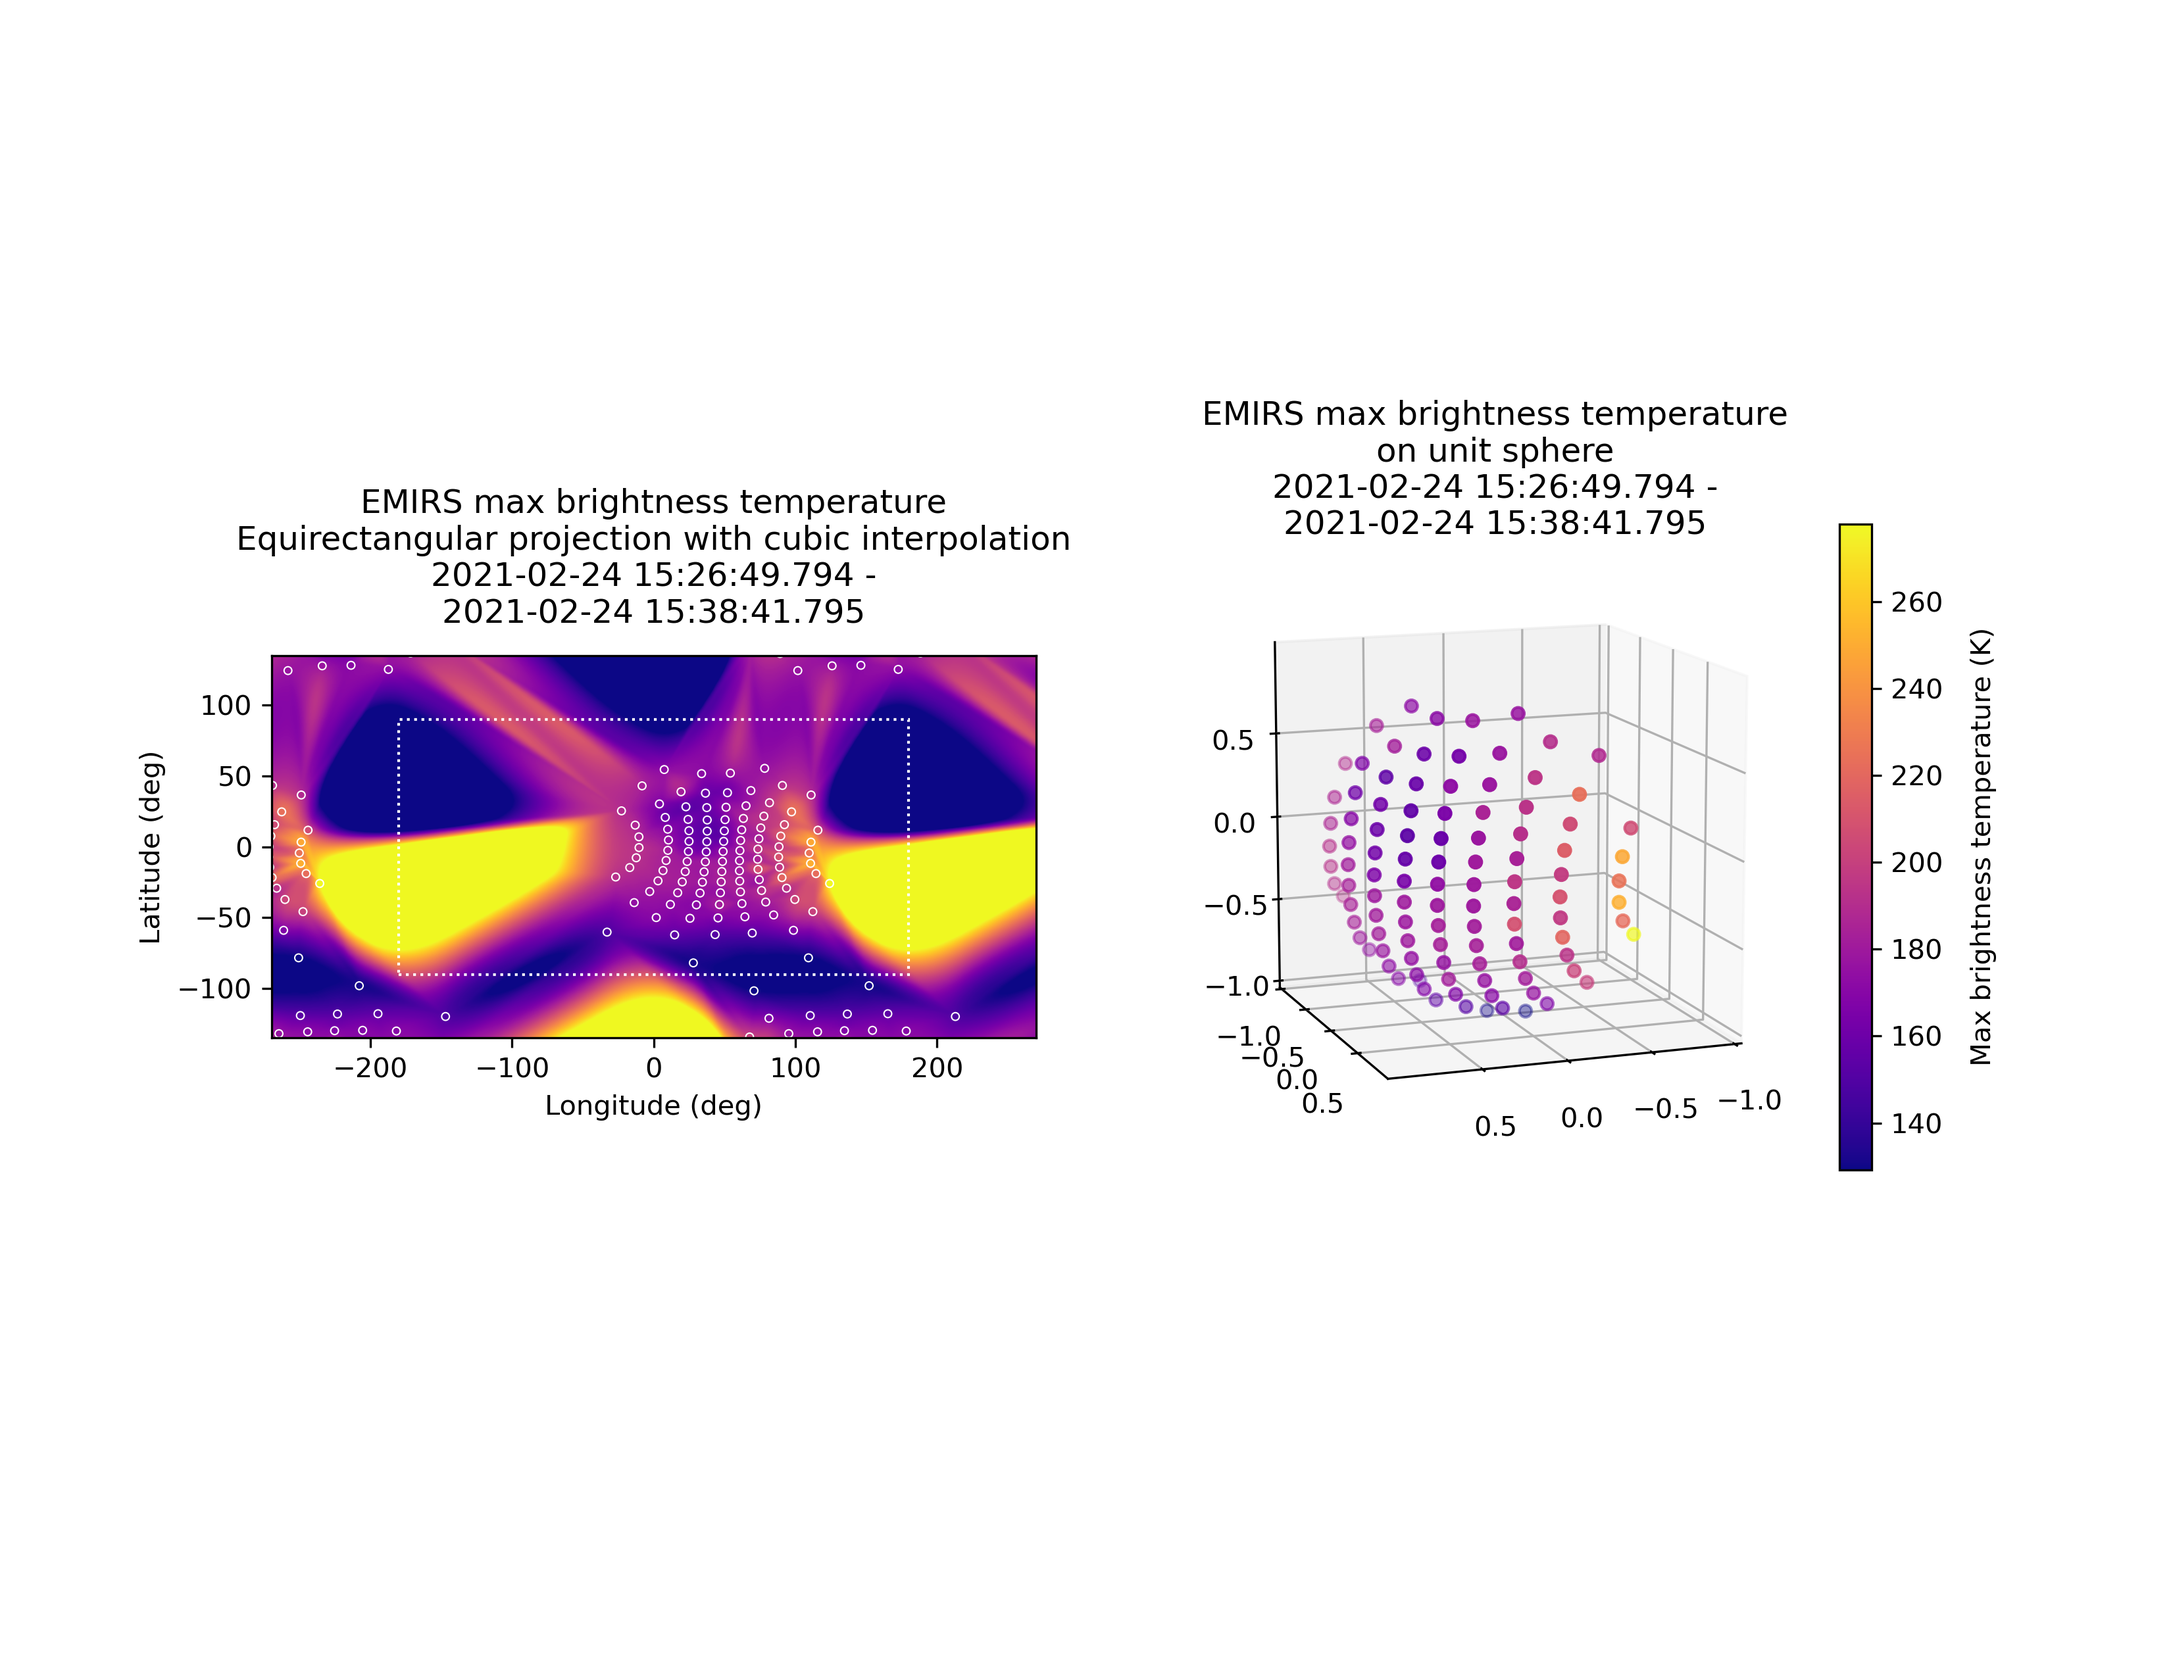
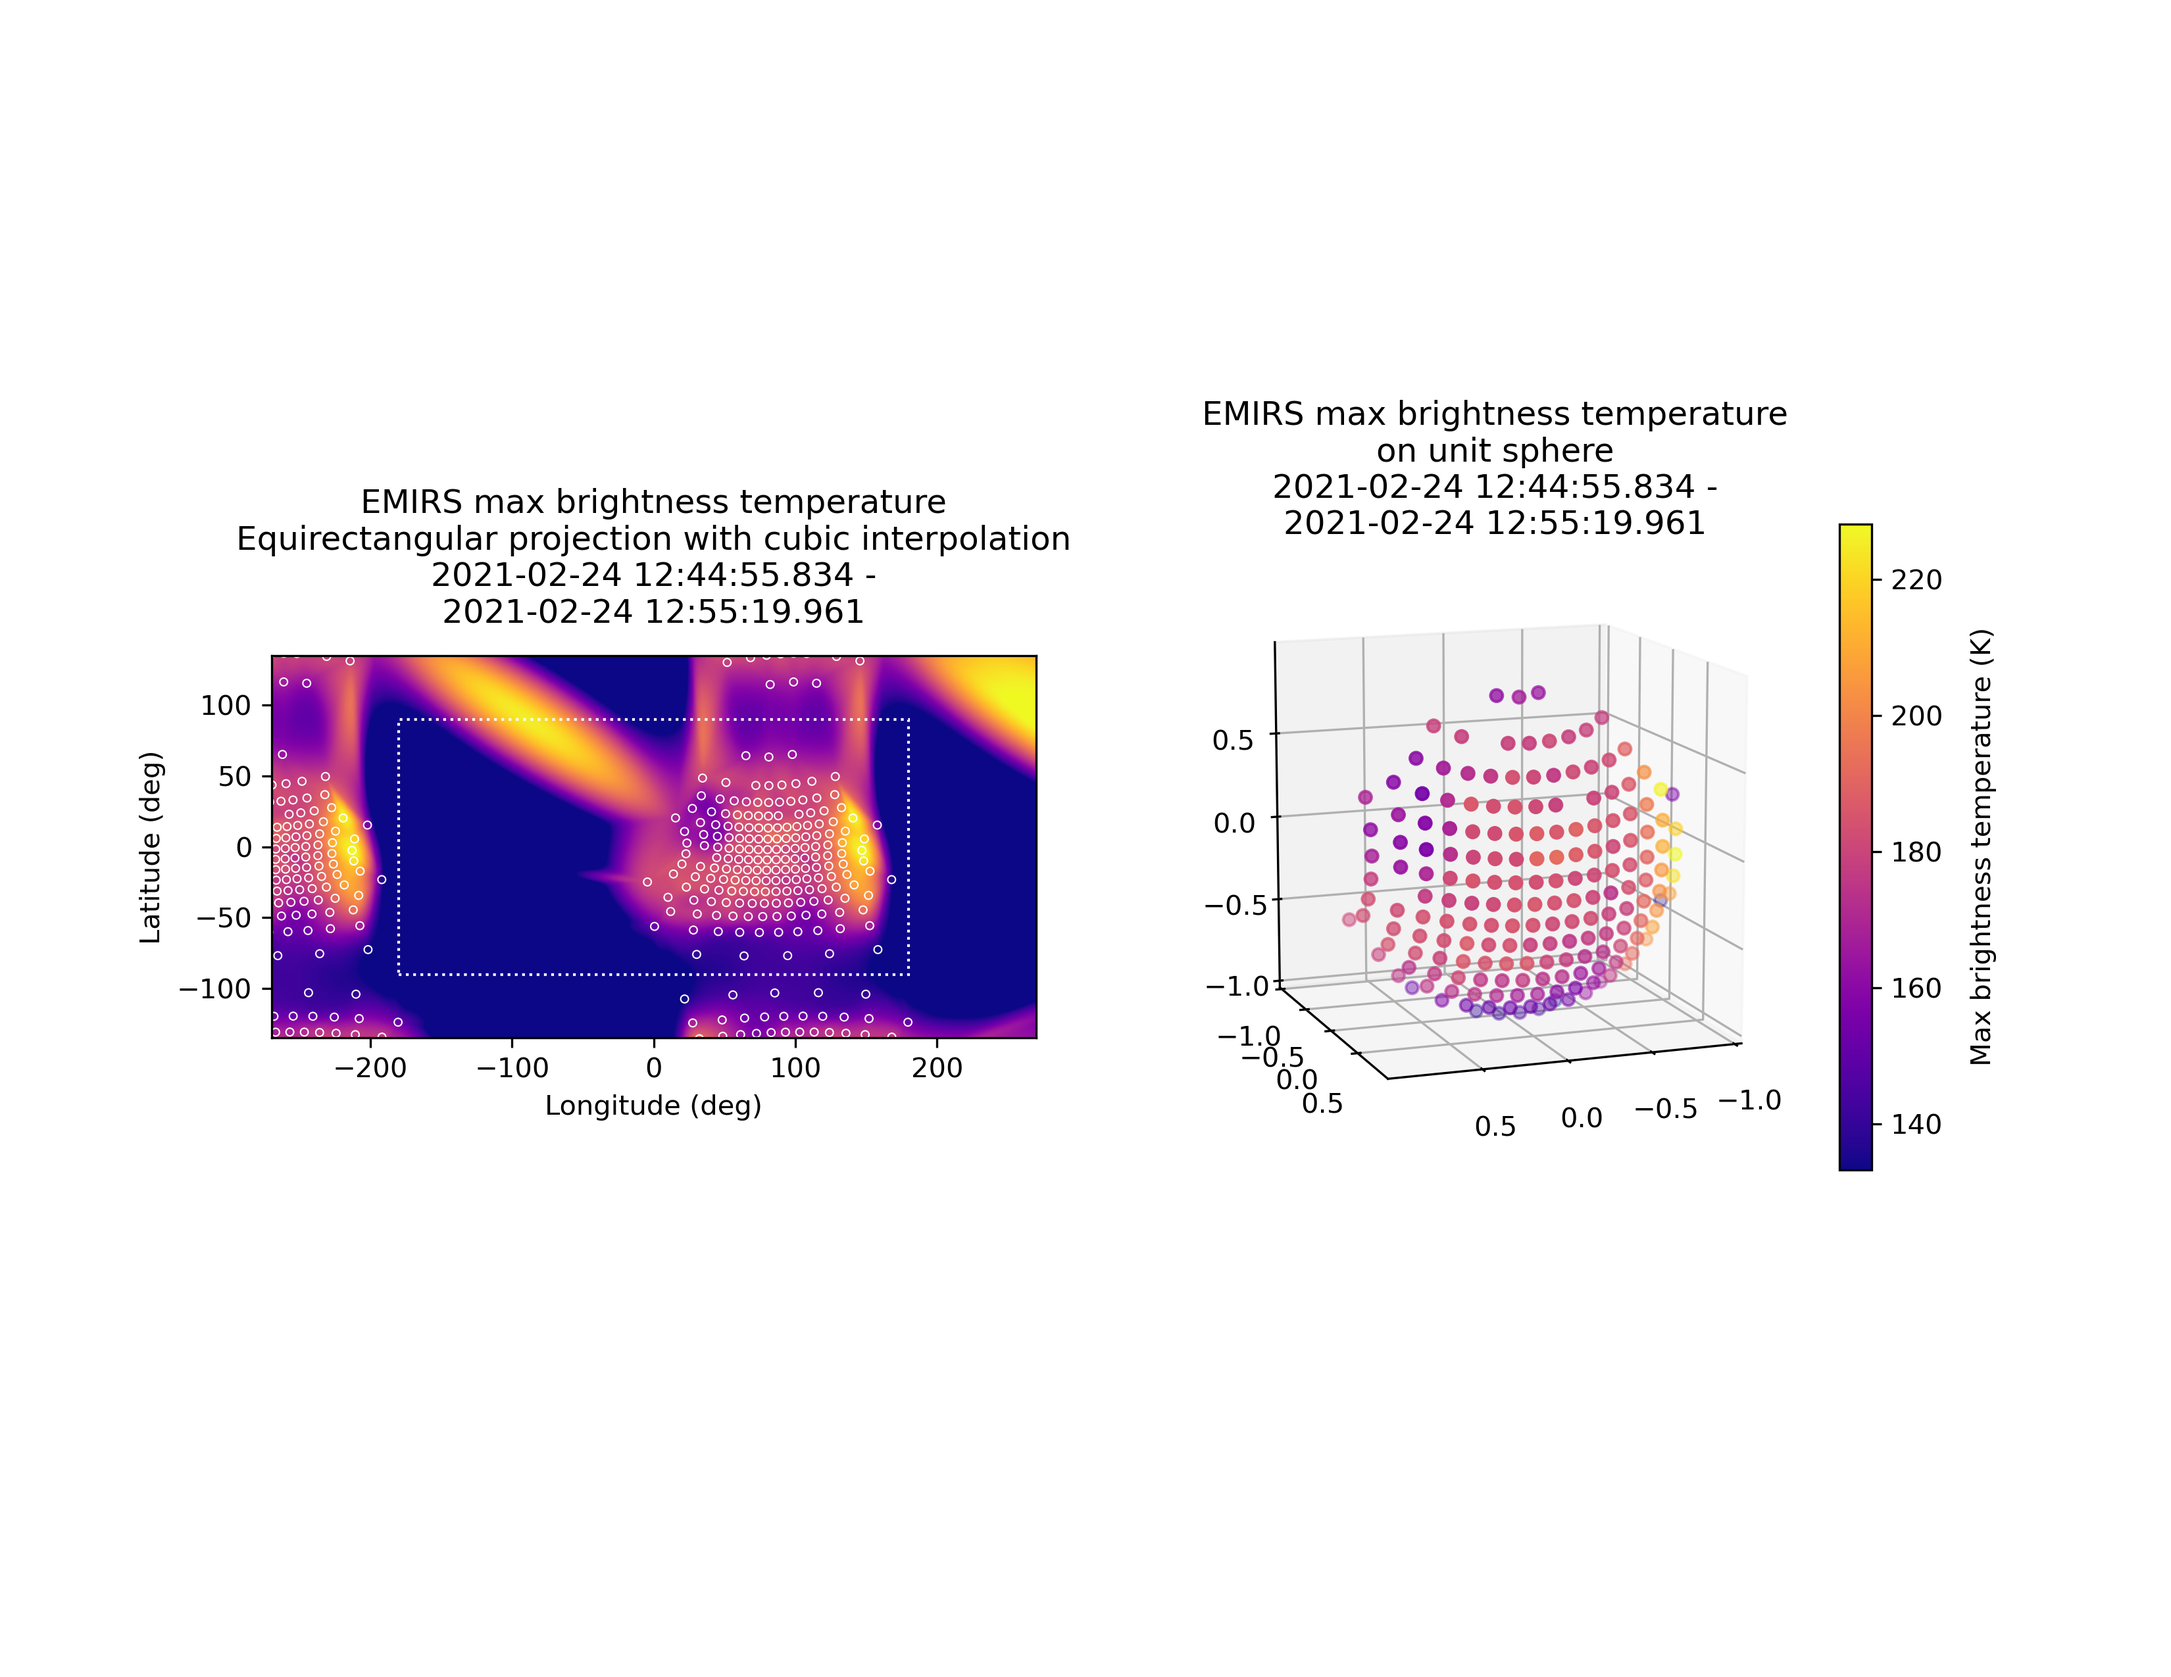
Implement interpolations

diff --git a/mars_1.py b/mars_1.py
@@ -112,6 +112,7 @@ elev = 12
 # cb.set_label("Calibrated DN", labelpad=10)
 # fig.colorbar(cm.ScalarMappable(cmap=cm.gray, norm=imgs).set_array([]), ax=ax, shrink=0.5)
 
+# for index in range(len(fits_files)):
 # Spectro view
 hdul = fits.open(join(file_dir, fits_files[index]))
 # hdul = fits.open("emm_data/0224/emm_emr_l2_20210224t095920_0011_r_v00-01.fits")
@@ -205,10 +206,11 @@ cb.set_label("Max brightness temperature (K)", labelpad=10)
 # # for i in range(hdr['NAXIS2']):
 # #     ax.scatter(data[i][21], data[i][22], alpha=0.5, s=1.5)
 
-# fig = plt.gcf()
+# c_fig = plt.gcf()
 plt.show()  # block=True
-# fig.set_size_inches((11, 8.5), forward=False)
-# fig.savefig("7_1".format(index), dpi=300)
+# c_fig.set_size_inches((11, 8.5), forward=False)
+# c_fig.savefig("7_{}".format(index), dpi=300)
+# plt.clf()
 
 # Find time
 # Time in utc field diverges 3 mins from labeled time

diff --git a/mars.py b/mars.py
@@ -141,8 +141,8 @@ img_files = [filename for filename in listdir(file_dir) if (isfile(join(file_dir
 fig = plt.figure()
 fig.canvas.manager.full_screen_toggle()
 radius = 1
-azim = 115
-elev = 10
+azim = 70
+elev = 12
 max_val = 280 # K
 min_val = 120 # K
 for index in range(len(fits_files)):
